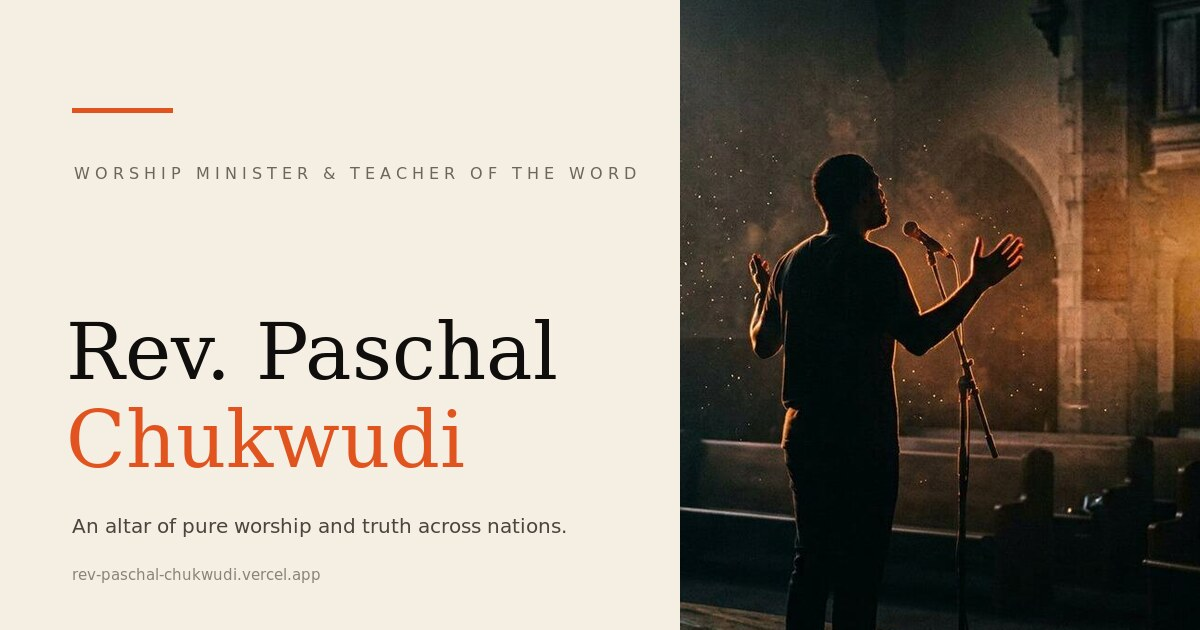
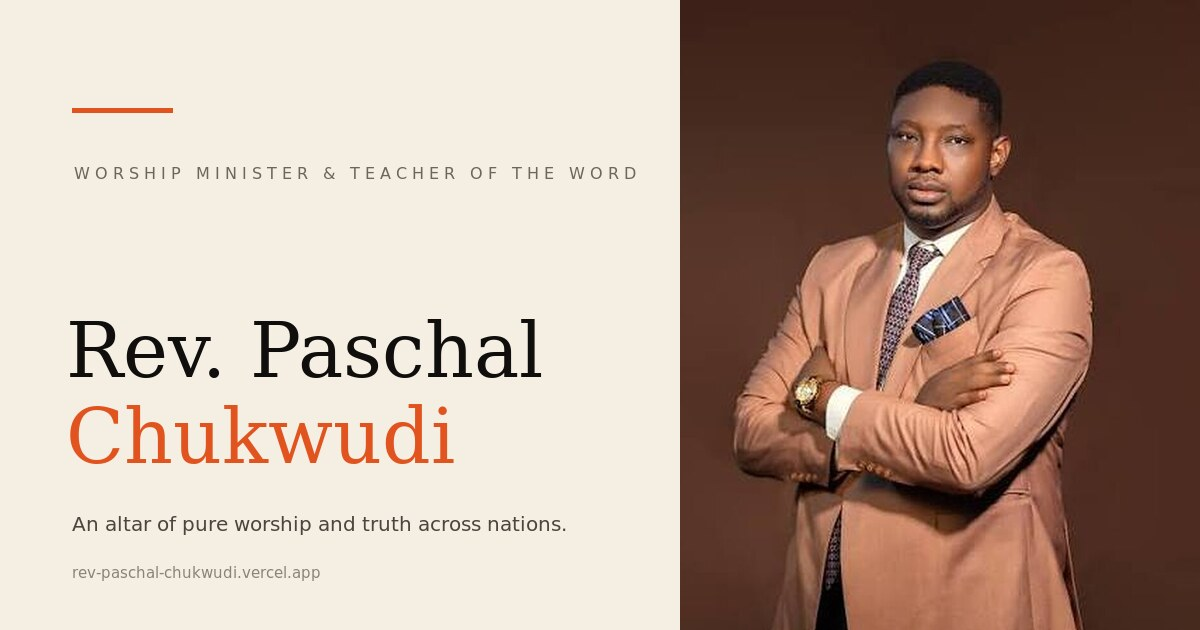
Use the real ministry photographs and the real weekly gatherings
- Hero, About, live background, quote avatar and Moments now use the
  supplied photographs; social card rebuilt from the portrait.
- Gatherings replaced with Mentality Shift (Wed 5PM), Quivers Night of
  Prayer (Fri 9PM) and Build Up Service (Sun 3PM), each with a weekly
  .ics download so visitors can save the rhythm to their calendar.
- Address wording matches the ministry's own flyers.

diff --git a/sites/rev-paschal-chukwudi/index.html b/sites/rev-paschal-chukwudi/index.html
@@ -135,11 +135,11 @@
 
       <figure class="hero__art">
         <div class="hero__arch" data-parallax="0.12">
-          <img src="assets/hero-worship.jpg" alt="A worshipper silhouetted at a microphone in a dark sanctuary, lit by a warm beam of light" width="900" height="1200" fetchpriority="high" />
+          <img src="assets/hero-portrait.jpg" alt="Rev. Paschal Chukwudi, arms folded" width="878" height="1102" fetchpriority="high" />
         </div>
         <figcaption class="hero__caption">
-          <span>Spirit-breathed worship</span>
-          <span>Est. in the secret place</span>
+          <span>Worship · The Word</span>
+          <span>Agu-Awka, Anambra</span>
         </figcaption>
         <span class="hero__halo" aria-hidden="true"></span>
       </figure>
@@ -175,8 +175,8 @@
           Called to lead people into <em>deeper intimacy</em> with the Father.
         </h2>
         <figure class="about__figure" data-reveal data-delay="2">
-          <img src="assets/about-bible.jpg" alt="An open Bible on cream linen, lit by warm morning light" width="900" height="1125" loading="lazy" />
-          <figcaption>“Thy word is a lamp unto my feet.” — Psalm 119:105</figcaption>
+          <img src="assets/about-teaching.jpg" alt="Rev. Paschal Chukwudi teaching at the Mentality Shift class in Agu-Awka" width="748" height="935" loading="lazy" />
+          <figcaption>Teaching at the Mentality Shift class, Agu-Awka.</figcaption>
         </figure>
       </aside>
 
@@ -221,7 +221,10 @@
             see lives ignited with a hunger for God — to see broken hearts healed,
             and to see a generation return to the altar.”
           </p>
-          <cite>Rev. Paschal Chukwudi</cite>
+          <footer class="pullquote__foot">
+            <img class="pullquote__avatar" src="assets/portrait-avatar.jpg" alt="" width="48" height="48" loading="lazy" />
+            <cite>Rev. Paschal Chukwudi</cite>
+          </footer>
         </blockquote>
       </div>
     </div>
@@ -404,7 +407,7 @@
   <!-- ── 04 Live ─────────────────────────────────────────────── -->
   <section class="live" id="live">
     <div class="live__bg" aria-hidden="true">
-      <img src="assets/live-stage.jpg" alt="" loading="lazy" />
+      <img src="assets/live-ministry.jpg" alt="" loading="lazy" />
     </div>
     <div class="shell live__inner">
       <p class="tag tag--light" data-reveal>04 — Live broadcast</p>
@@ -501,40 +504,73 @@
           <h2 class="h-section" data-reveal data-delay="1">Come and <em>stand in the room</em>.</h2>
         </div>
         <p class="section-head__note" data-reveal data-delay="2">
-          Dates and venues are confirmed personally. Send a note and the details
-          will reach you first.
+          Three gatherings, every week, in Agu-Awka. Add any of them to your
+          calendar, or write in and the details will reach you first.
         </p>
       </header>
 
       <div class="events">
         <article class="event" data-reveal>
-          <div class="event__date"><span class="event__day">Fri</span><span class="event__big">01</span><span class="event__mon">monthly</span></div>
-          <div class="event__body">
-            <h3>Worship &amp; Word Night</h3>
-            <p>An evening of unbroken worship and plain teaching. First Friday, every month.</p>
-            <ul class="event__meta"><li>Agu-Awka, Anambra</li><li>6:00 PM</li><li class="chip">Venue TBC</li></ul>
+          <div class="event__date">
+            <span class="event__day">Wed</span>
+            <span class="event__big">5<span>PM</span></span>
+            <span class="event__mon">weekly</span>
           </div>
-          <a class="event__cta" href="mailto:rcnanambra@gmail.com?subject=Worship%20%26%20Word%20Night%20details">Get details <svg viewBox="0 0 24 24" aria-hidden="true"><path d="M5 12h13M12 5l7 7-7 7" /></svg></a>
+          <div class="event__body">
+            <h3>Mentality Shift</h3>
+            <p>A midweek class on renewed thinking — the Word taught plainly, until the mind catches up with the Spirit.</p>
+            <ul class="event__meta">
+              <li>456 Zik Avenue, Agu-Awka</li>
+              <li>Wednesdays · 5:00 PM</li>
+              <li class="chip">In person</li>
+            </ul>
+          </div>
+          <div class="event__actions">
+            <a class="event__cta" href="assets/calendar/mentality-shift.ics" download>Add to calendar <svg viewBox="0 0 24 24" aria-hidden="true"><path d="M12 4v11M7 11l5 5 5-5M5 20h14" /></svg></a>
+            <a class="event__cta event__cta--muted" href="mailto:rcnanambra@gmail.com?subject=Mentality%20Shift">Ask a question</a>
+          </div>
         </article>
 
         <article class="event" data-reveal data-delay="1">
-          <div class="event__date"><span class="event__day">Qtr</span><span class="event__big">04</span><span class="event__mon">yearly</span></div>
-          <div class="event__body">
-            <h3>Altar of Consecration</h3>
-            <p>A quarterly night of prayer, fasting and consecration for worshippers and intercessors.</p>
-            <ul class="event__meta"><li>Awka, Anambra</li><li>10:00 PM</li><li class="chip">Date TBC</li></ul>
+          <div class="event__date">
+            <span class="event__day">Fri</span>
+            <span class="event__big">9<span>PM</span></span>
+            <span class="event__mon">weekly</span>
           </div>
-          <a class="event__cta" href="mailto:rcnanambra@gmail.com?subject=Altar%20of%20Consecration%20details">Get details <svg viewBox="0 0 24 24" aria-hidden="true"><path d="M5 12h13M12 5l7 7-7 7" /></svg></a>
+          <div class="event__body">
+            <h3>Quivers Night of Prayer</h3>
+            <p>A night watch of prayer and intercession — children in the quiver, arrows in the hand of the mighty.</p>
+            <ul class="event__meta">
+              <li>456 Zik Avenue, Agu-Awka</li>
+              <li>Fridays · 9:00 PM</li>
+              <li class="chip">In person</li>
+            </ul>
+          </div>
+          <div class="event__actions">
+            <a class="event__cta" href="assets/calendar/quivers-night-of-prayer.ics" download>Add to calendar <svg viewBox="0 0 24 24" aria-hidden="true"><path d="M12 4v11M7 11l5 5 5-5M5 20h14" /></svg></a>
+            <a class="event__cta event__cta--muted" href="mailto:rcnanambra@gmail.com?subject=Quivers%20Night%20of%20Prayer">Ask a question</a>
+          </div>
         </article>
 
         <article class="event" data-reveal data-delay="2">
-          <div class="event__date"><span class="event__day">Any</span><span class="event__big">01</span><span class="event__mon">date</span></div>
-          <div class="event__body">
-            <h3>Live online broadcast</h3>
-            <p>Whenever the altar opens online, the stream is announced here and by email.</p>
-            <ul class="event__meta"><li>YouTube</li><li>Free</li><li class="chip">As announced</li></ul>
+          <div class="event__date">
+            <span class="event__day">Sun</span>
+            <span class="event__big">3<span>PM</span></span>
+            <span class="event__mon">weekly</span>
           </div>
-          <a class="event__cta" href="#live">Watch live <svg viewBox="0 0 24 24" aria-hidden="true"><path d="M5 12h13M12 5l7 7-7 7" /></svg></a>
+          <div class="event__body">
+            <h3>Build Up Service</h3>
+            <p>The weekly gathering of the house — worship, the Word, and the building up of every believer.</p>
+            <ul class="event__meta">
+              <li>456 Zik Avenue, Agu-Awka</li>
+              <li>Sundays · 3:00 PM</li>
+              <li class="chip">In person</li>
+            </ul>
+          </div>
+          <div class="event__actions">
+            <a class="event__cta" href="assets/calendar/build-up-service.ics" download>Add to calendar <svg viewBox="0 0 24 24" aria-hidden="true"><path d="M12 4v11M7 11l5 5 5-5M5 20h14" /></svg></a>
+            <a class="event__cta event__cta--muted" href="mailto:rcnanambra@gmail.com?subject=Build%20Up%20Service">Ask a question</a>
+          </div>
         </article>
       </div>
     </div>
@@ -579,14 +615,14 @@
           <figure class="reel__item"><img src="https://img.youtube.com/vi/z6oS7gFRUPQ/hqdefault.jpg" alt="Deep worship session" loading="lazy" /></figure>
           <figure class="reel__item"><img src="https://img.youtube.com/vi/tZ7qGSgp2AY/hqdefault.jpg" alt="Live broadcast" loading="lazy" /></figure>
           <figure class="reel__item"><img src="https://img.youtube.com/vi/NdRadQfOQrk/hqdefault.jpg" alt="Yahweh is inside me" loading="lazy" /></figure>
-          <figure class="reel__item"><img src="https://img.youtube.com/vi/J37y5lIHttU/hqdefault.jpg" alt="Warfare prayer instrumental" loading="lazy" /></figure>
-          <figure class="reel__item"><img src="https://img.youtube.com/vi/cJ4dMkl9xPw/hqdefault.jpg" alt="Immersive worship session" loading="lazy" /></figure>
+          <figure class="reel__item"><img src="assets/live-ministry.jpg" alt="Ministry at the altar" loading="lazy" /></figure>
+          <figure class="reel__item"><img src="assets/about-teaching.jpg" alt="Teaching at the Mentality Shift class" loading="lazy" /></figure>
           <figure class="reel__item"><img src="https://img.youtube.com/vi/qLcL8uXu_xE/hqdefault.jpg" alt="" loading="lazy" /></figure>
           <figure class="reel__item"><img src="https://img.youtube.com/vi/z6oS7gFRUPQ/hqdefault.jpg" alt="" loading="lazy" /></figure>
           <figure class="reel__item"><img src="https://img.youtube.com/vi/tZ7qGSgp2AY/hqdefault.jpg" alt="" loading="lazy" /></figure>
           <figure class="reel__item"><img src="https://img.youtube.com/vi/NdRadQfOQrk/hqdefault.jpg" alt="" loading="lazy" /></figure>
-          <figure class="reel__item"><img src="https://img.youtube.com/vi/J37y5lIHttU/hqdefault.jpg" alt="" loading="lazy" /></figure>
-          <figure class="reel__item"><img src="https://img.youtube.com/vi/cJ4dMkl9xPw/hqdefault.jpg" alt="" loading="lazy" /></figure>
+          <figure class="reel__item"><img src="assets/live-ministry.jpg" alt="" loading="lazy" /></figure>
+          <figure class="reel__item"><img src="assets/about-teaching.jpg" alt="" loading="lazy" /></figure>
         </div>
       </div>
     </div>
@@ -605,7 +641,7 @@
         </p>
         <div class="invite__contact" data-reveal data-delay="2">
           <a href="mailto:rcnanambra@gmail.com">rcnanambra@gmail.com</a>
-          <span>456 Ziks Avenue, Agu-Awka, Anambra State, Nigeria</span>
+          <span>456 Zik Avenue, Agu-Awka, by Ring Road Roundabout, Anambra State, Nigeria</span>
         </div>
       </div>
 
@@ -659,7 +695,7 @@
         </a>
         <div class="connect__card connect__card--static" data-reveal data-delay="2">
           <span class="connect__label">Location</span>
-          <span class="connect__value">456 Ziks Avenue, Agu-Awka,<br />Anambra State, Nigeria</span>
+          <span class="connect__value">456 Zik Avenue, Agu-Awka,<br />by Ring Road Roundabout, Anambra State</span>
         </div>
       </div>
     </div>

diff --git a/sites/rev-paschal-chukwudi/styles.css b/sites/rev-paschal-chukwudi/styles.css
@@ -526,14 +526,16 @@ body.is-ready .hero__stats { opacity: 1; }
 body.is-ready .hero__art { opacity: 1; transform: none; }
 .hero__arch {
   position: relative;
-  aspect-ratio: 3 / 4;
+  aspect-ratio: 4 / 5;
+  max-width: 520px;
+  margin-left: auto;
   border-radius: 999px 999px 10px 10px;
   overflow: hidden;
   background: var(--ink);
   box-shadow: 0 40px 80px -30px rgba(16, 15, 13, 0.45);
   will-change: transform;
 }
-.hero__arch img { width: 100%; height: 100%; object-fit: cover; object-position: center 35%; transform: scale(1.03); transition: transform 1.2s var(--ease); }
+.hero__arch img { width: 100%; height: 100%; object-fit: cover; object-position: center 18%; transform: scale(1.03); transition: transform 1.2s var(--ease); }
 .hero__art:hover .hero__arch img { transform: scale(1.07); }
 .hero__arch::after {
   content: "";
@@ -556,6 +558,8 @@ body.is-ready .hero__art { opacity: 1; transform: none; }
 }
 .hero__caption {
   display: flex;
+  max-width: 520px;
+  margin-left: auto;
   justify-content: space-between;
   gap: 1rem;
   margin-top: 0.9rem;
@@ -715,6 +719,15 @@ section[id] { scroll-margin-top: 88px; }
   margin: 0 0 1rem;
   color: var(--ink);
   letter-spacing: -0.005em;
+}
+.pullquote__foot { display: flex; align-items: center; gap: 0.8rem; }
+.pullquote__avatar {
+  width: 46px; height: 46px;
+  border-radius: 50%;
+  object-fit: cover;
+  object-position: center 20%;
+  border: 1px solid rgba(16, 15, 13, 0.12);
+  flex: 0 0 auto;
 }
 .pullquote cite {
   font-style: normal;
@@ -915,7 +928,7 @@ section[id] { scroll-margin-top: 88px; }
 /* ── Live ───────────────────────────────────────────────────── */
 .live { position: relative; padding: clamp(5rem, 15vh, 10rem) 0; color: var(--cream); overflow: hidden; }
 .live__bg { position: absolute; inset: 0; }
-.live__bg img { width: 100%; height: 100%; object-fit: cover; }
+.live__bg img { width: 100%; height: 100%; object-fit: cover; object-position: center 30%; }
 .live__bg::after {
   content: "";
   position: absolute; inset: 0;
@@ -1031,6 +1044,16 @@ section[id] { scroll-margin-top: 88px; }
 }
 .event__cta svg { width: 15px; height: 15px; fill: none; stroke: currentColor; stroke-width: 1.7; stroke-linecap: round; stroke-linejoin: round; }
 .event__cta:hover { color: var(--orange); border-color: var(--orange); gap: 0.7rem; }
+.event__cta--muted { color: var(--muted); border-color: rgba(16, 15, 13, 0.14); }
+.event__actions { display: grid; gap: 0.6rem; justify-items: start; }
+.event__big span {
+  font-family: var(--sans);
+  font-size: 0.3em;
+  letter-spacing: 0.14em;
+  vertical-align: 0.65em;
+  margin-left: 0.25em;
+  color: var(--muted);
+}
 
 /* ── The Word ───────────────────────────────────────────────── */
 .word { border-bottom: var(--hair); }
@@ -1265,7 +1288,7 @@ section[id] { scroll-margin-top: 88px; }
   .verses { grid-template-columns: 1fr; }
   .connect__grid { grid-template-columns: 1fr; }
   .event { grid-template-columns: 100px 1fr; }
-  .event__cta { grid-column: 2; justify-self: start; }
+  .event__actions { grid-column: 2; justify-items: start; }
   .cards2 { grid-template-columns: 1fr; }
   .card-mini + .card-mini { padding-left: 0; border-left: 0; }
 }
@@ -1276,7 +1299,7 @@ section[id] { scroll-margin-top: 88px; }
   .sound__meta h3 { font-size: 0.9rem; }
   .hero__caption { font-size: 0.56rem; letter-spacing: 0.12em; }
   .event { grid-template-columns: 1fr; gap: 1rem; }
-  .event__cta { grid-column: 1; }
+  .event__actions { grid-column: 1; }
   .event__date { grid-template-columns: auto auto auto; align-items: baseline; }
   .event__big { grid-column: auto; font-size: 1.5rem; }
   .footer__base { flex-direction: column; align-items: flex-start; }

diff --git a/sites/rev-paschal-chukwudi/README.md b/sites/rev-paschal-chukwudi/README.md
@@ -19,7 +19,8 @@ lightbox. Everything respects `prefers-reduced-motion`.
 index.html      markup + copy (all content lives here)
 styles.css      the whole design system
 main.js         interactions (progressive: the page reads fine without it)
-assets/         3 atmospheric photographs + og-cover.jpg (social share card)
+assets/         real ministry photographs + og-cover.jpg (social share card)
+assets/calendar/ three .ics files for the weekly gatherings
 build.mjs       bundles everything into one dist/index.html (optional)
 ```
 
@@ -45,33 +46,43 @@ accepts one HTML file.
 
 ---
 
-## Content — what to check before it goes public
+## Content
 
-All of the original site's copy was preserved: the bio, mission, belief,
-the pull quote, the three ministry offerings, all **11 worship videos**,
-the **live broadcast**, both **audio downloads**, email, address and
-Facebook link. New sections added around them:
+Everything from the original site was preserved: the bio, mission, belief, the
+pull quote, the three ministry offerings, all **11 worship videos**, the **live
+broadcast**, both **audio downloads**, email, address and Facebook link.
+Around them:
 
-| Section | Status |
+| Section | Source |
 | --- | --- |
 | Hero, About, Ministry, Sounds, Live, Connect | Real content, carried over |
-| **Resources** (audio, devotionals, prayer sounds, leader guides) | Written as an offer; each link opens an email request until you have real downloads |
-| **Gatherings** | *Placeholders.* Dates, venues and times say “TBC” on purpose — replace them with the real calendar |
+| **Gatherings** | The real weekly rhythm (see below) |
+| **Resources** | Written as an offer; each link opens an email request until you have real files |
 | **The Word** | Three scripture cards (John 4:23, Psalm 96:9, Psalm 34:1) |
-| **Moments** | Real video stills from the ministry's own YouTube videos |
+| **Moments** | Real ministry photographs + video stills |
 
-### Placeholders to replace (search for these)
+### Gatherings — every week
 
-1. **`Gatherings`** — the three `<article class="event">` blocks
-   (`#gatherings`): titles, “First Friday”, “Quarterly”, venues and times.
-2. **Hero stat “11”** — `data-count="11"`, the number of published sessions.
-3. **Footer year** — filled in automatically.
-4. **Photographs** — `assets/hero-worship.jpg`, `assets/about-bible.jpg`,
-   `assets/live-stage.jpg` are **AI-generated atmospheric imagery, not
-   photographs of Rev. Paschal**. Replace them with real ministry photos
-   (same filenames, or update the `<img>` paths) before launch.
-5. **Video lightbox** — plays through `youtube-nocookie.com`; all 11 IDs come
-   from the ministry's existing YouTube uploads.
+| Day | Time | Gathering | Calendar file |
+| --- | --- | --- | --- |
+| Wednesday | 5:00 PM | Mentality Shift | `assets/calendar/mentality-shift.ics` |
+| Friday | 9:00 PM | Quivers Night of Prayer | `assets/calendar/quivers-night-of-prayer.ics` |
+| Sunday | 3:00 PM | Build Up Service | `assets/calendar/build-up-service.ics` |
+
+Venue: **456 Zik Avenue, Agu-Awka, by Ring Road Roundabout**.
+Each `.ics` file repeats weekly (Nigeria time, UTC+1) and assumes a **two-hour
+meeting** — adjust `DTEND` if a gathering runs shorter or longer. Each card's
+"Add to calendar" link downloads its file, so a visitor's phone offers to save
+the weekly rhythm.
+
+### Photographs
+
+`assets/hero-portrait.jpg`, `assets/about-teaching.jpg`,
+`assets/live-ministry.jpg` and `assets/portrait-avatar.jpg` are the four
+ministry photographs supplied. They are small originals (≈400–600 px wide) and
+have been upscaled for the page; if you have the full-resolution files, drop
+them in with the same filenames and the layout sharpens automatically.
+`assets/og-cover.jpg` is the 1200×630 social card, built from the portrait.
 
 ### Forms
 
